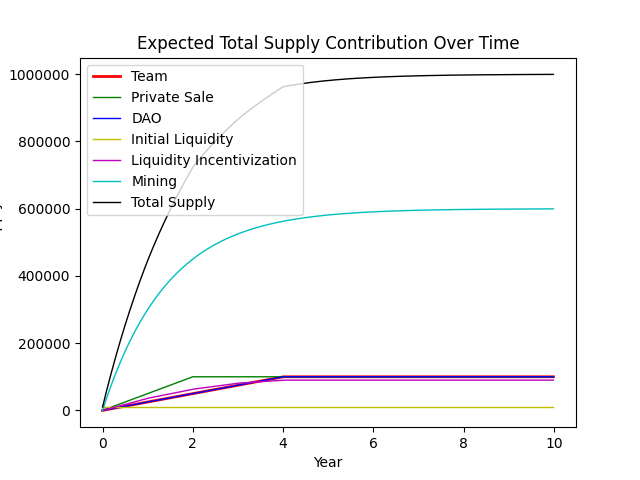
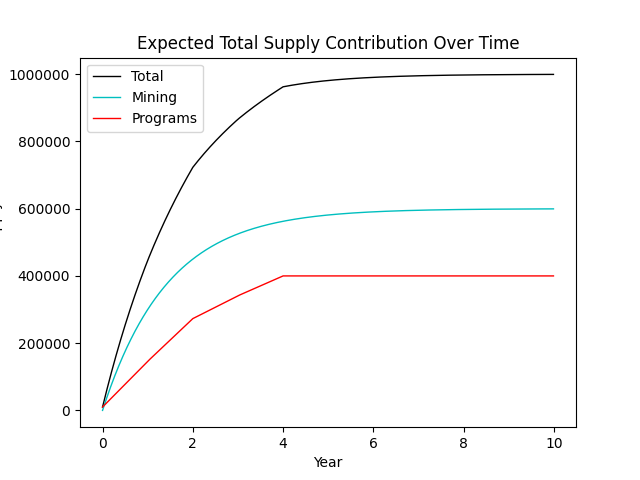
hide bond link

diff --git a/website/src/components/Layout.tsx b/website/src/components/Layout.tsx
@@ -26,7 +26,7 @@ import Config from '@/config.json';
 const navigation = [
   { name: 'Generate', href: '/generate', external: false, },
   { name: 'Staking', href: 'https://app.gysr.io/pool/0x6c1ffdecc6520571d2c41087726611938a9ae99f?network=ethereum', external: true, },
-  { name: 'Bond', href: 'https://app.bondprotocol.finance/#/market/42161/111', external: true, },
+  // { name: 'Bond', href: 'https://app.bondprotocol.finance/#/market/42161/111', external: true, },
   { name: 'Models', href: '/models', external: false, },
   { name: 'Explorer', href: '/explorer', external: false, },
   { name: 'Governance', href: 'https://www.tally.xyz/gov/arbitrum', external: true, },

diff --git a/paper/plot_expected_total_supply.py b/paper/plot_expected_total_supply.py
@@ -50,17 +50,13 @@ for year in range(0, 10):
 
 fig1, ax1 = plt.subplots()
 
-ax1.plot(timestamps, [x[0] for x in values], label='Team', c='r', linewidth=2)
-ax1.plot(timestamps, [x[1] for x in values], label='Private Sale', c='g', linewidth=1)
-ax1.plot(timestamps, [x[2] for x in values], label='DAO', c='b', linewidth=1)
-ax1.plot(timestamps, [x[3] for x in values], label='Initial Liquidity', c='y', linewidth=1)
-ax1.plot(timestamps, [x[4] for x in values], label='Liquidity Incentivization', c='m', linewidth=1)
-ax1.plot(timestamps, [x[5] for x in values], label='Mining', c='c', linewidth=1)
 ax1.plot(timestamps, [x[6] for x in values], label='Total Supply', c='k', linewidth=1)
+ax1.plot(timestamps, [x[5] for x in values], label='Mining', c='c', linewidth=1)
+ax1.plot(timestamps, [x[0]+x[1]+x[2]+x[3]+x[4] for x in values], label='Programs', c='r', linewidth=1)
 
 # Plot the graph
 # plt.plot(timestamps, values)
-ax1.legend(['Team', 'Private Sale', 'DAO', 'Initial Liquidity', 'Liquidity Incentivization', 'Mining', 'Total Supply'])
+ax1.legend(['Total', 'Mining', 'Programs'])
 
 
 # plt.set_xlabel('Year')
